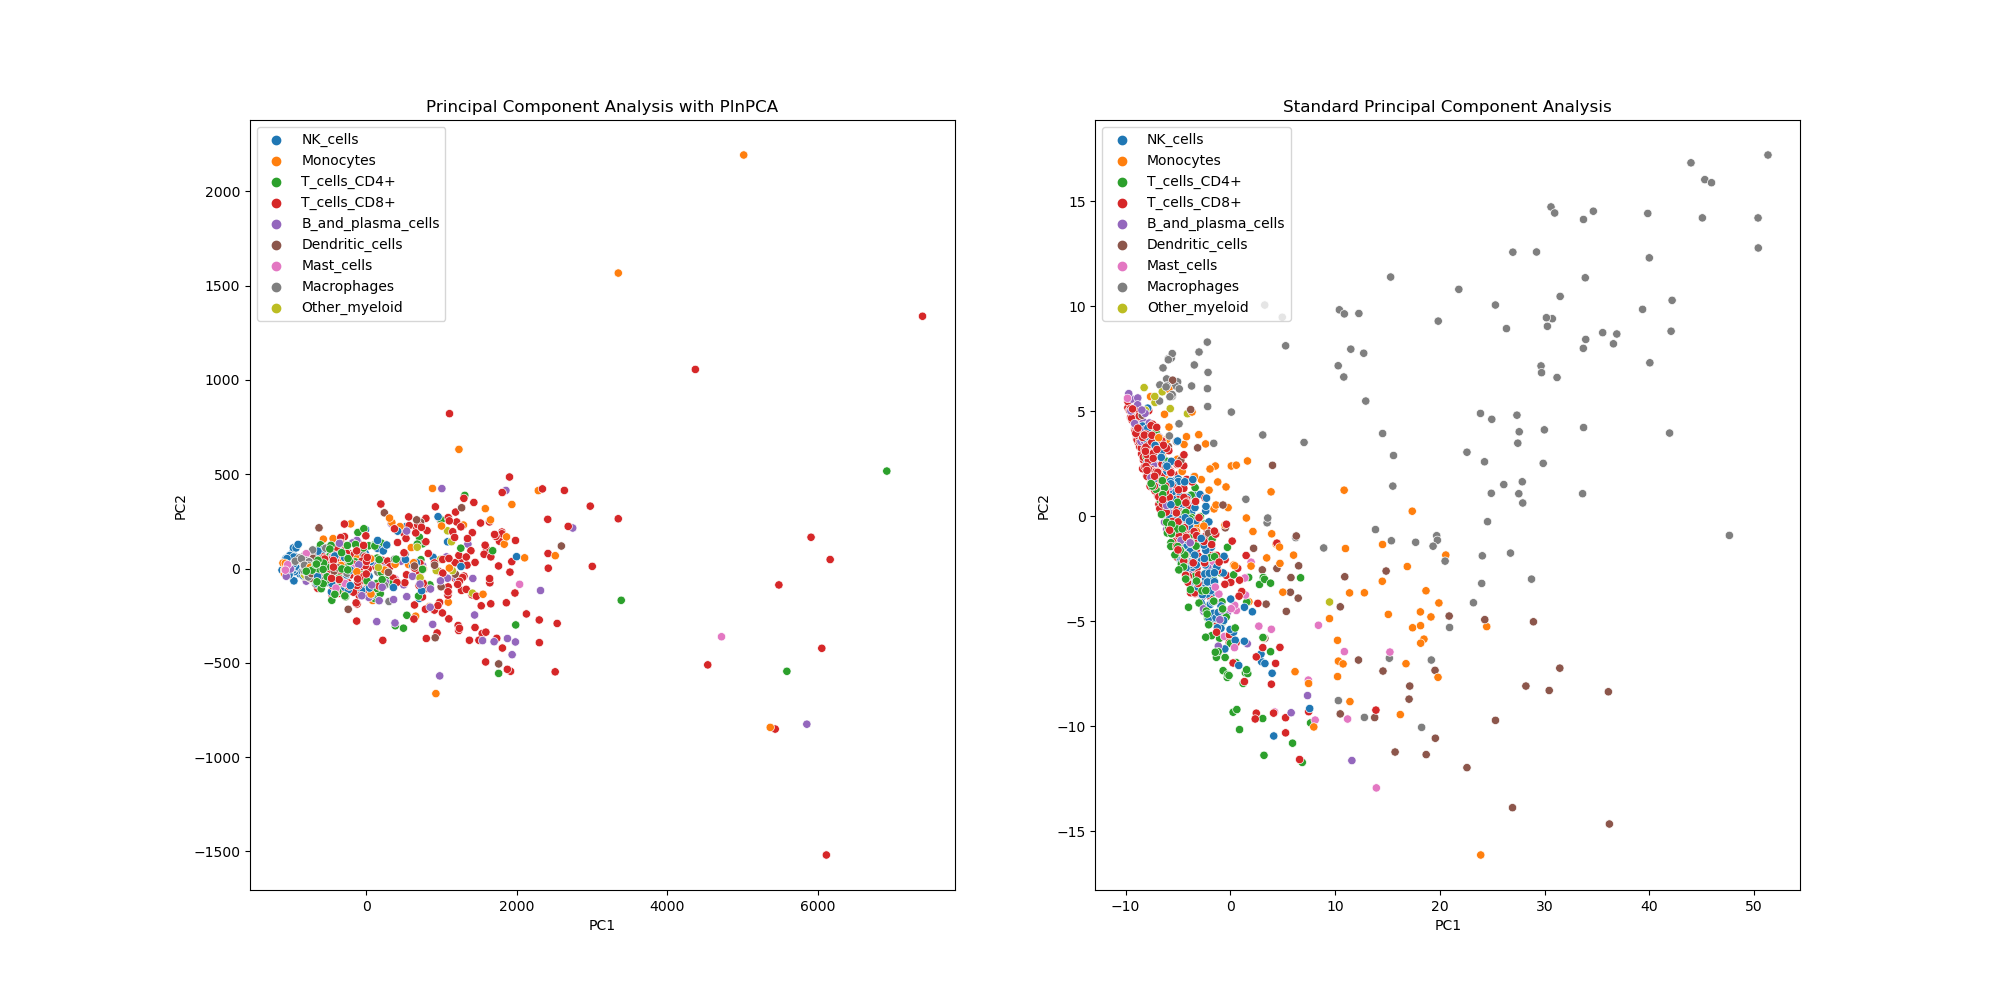
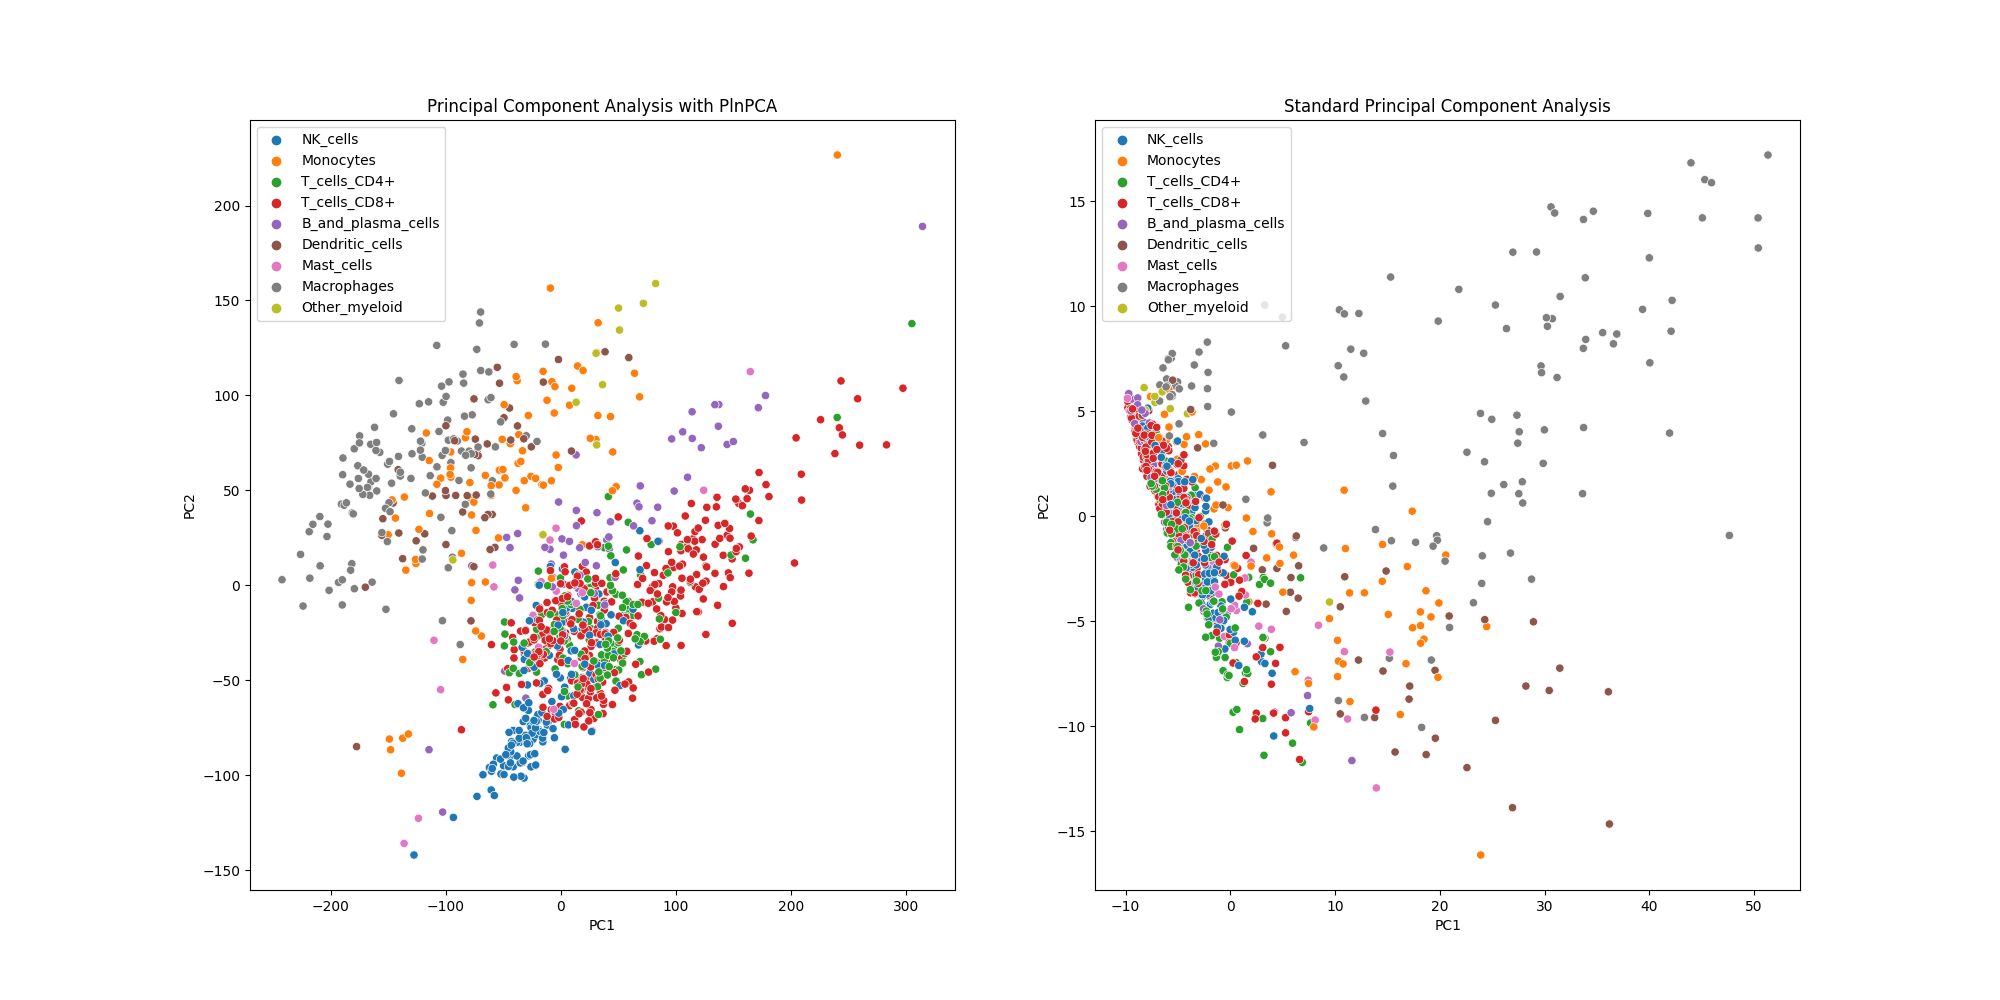
add right figure

diff --git a/pca.py b/pca.py
@@ -8,14 +8,14 @@ import time
 
 fig, axes = plt.subplots(1, 2, figsize=(20, 10))
 
-n = 100
-p = 14000
+n = 1000
+p = 14059
 Y, _, GT = get_sc_mark_data(max_n=n, dim=p)
 
 
-plnpca = PlnPCA(Y, rank=80)
+plnpca = PlnPCA(Y, rank=280)
 t = time.time()
-plnpca.fit(tol=0.05, verbose=True)
+plnpca.fit(tol=0.15, verbose=True)
 print("time took:", (time.time() - t) / 60)
 
 
